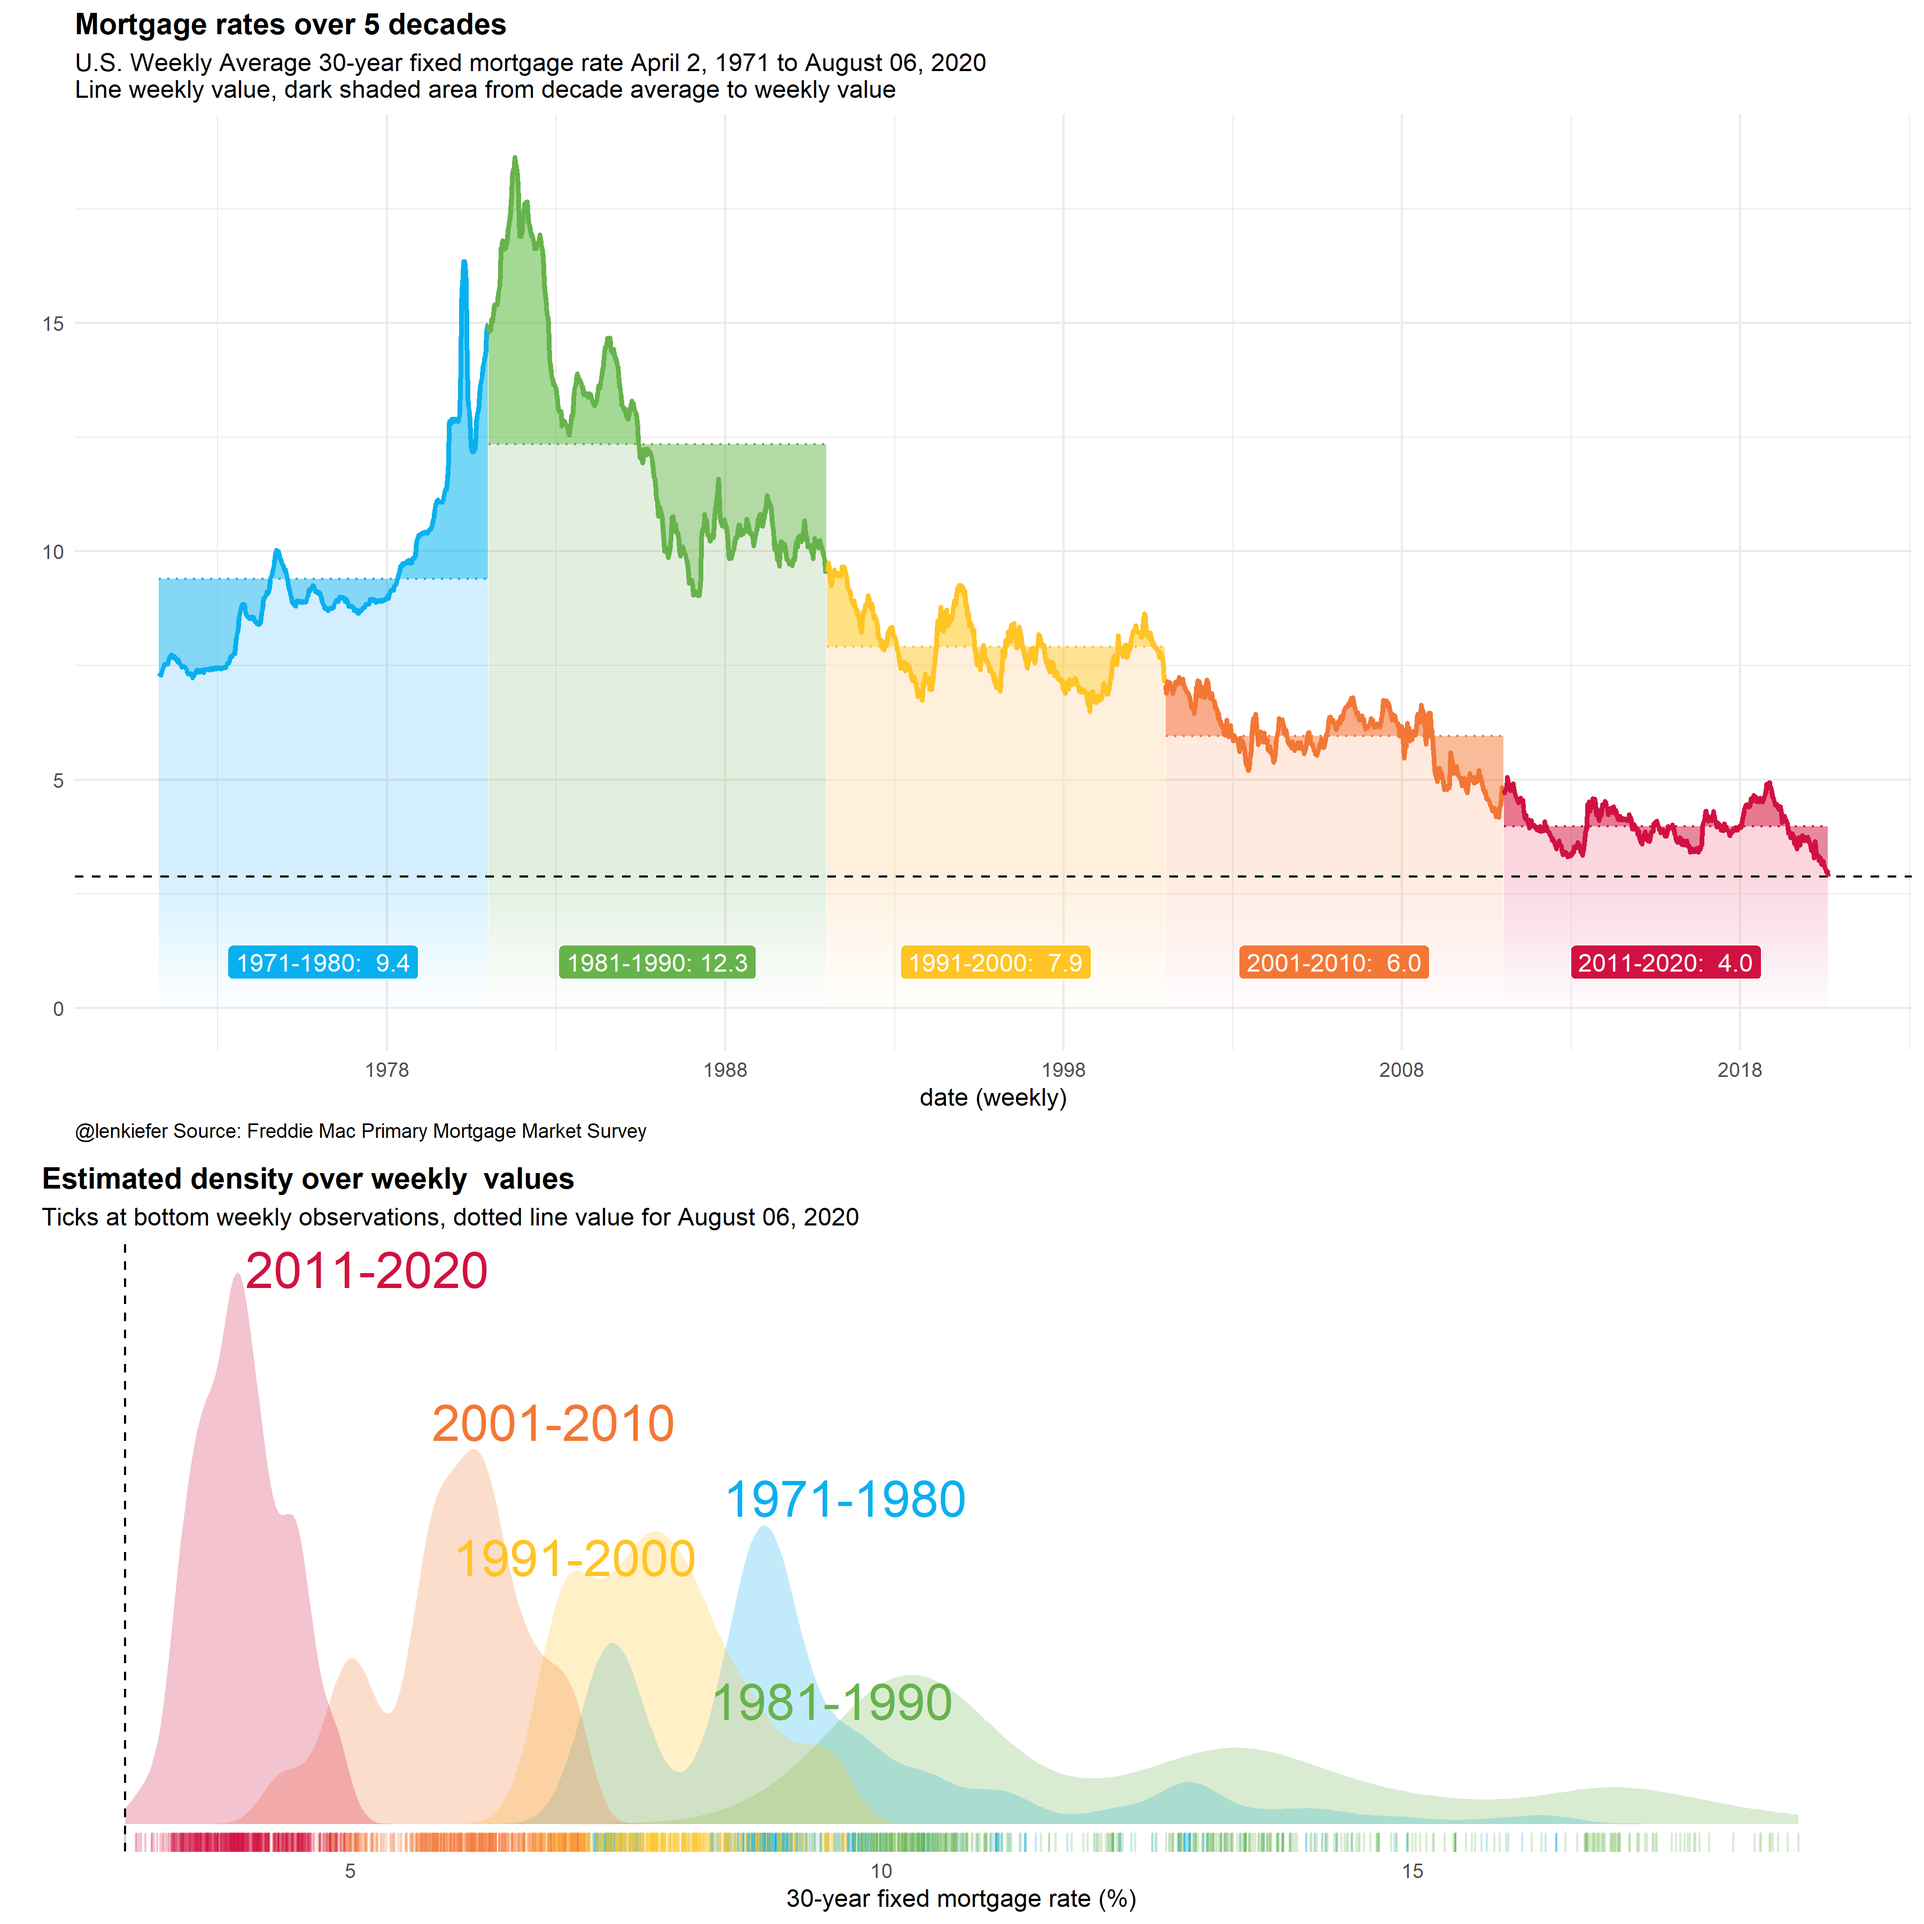
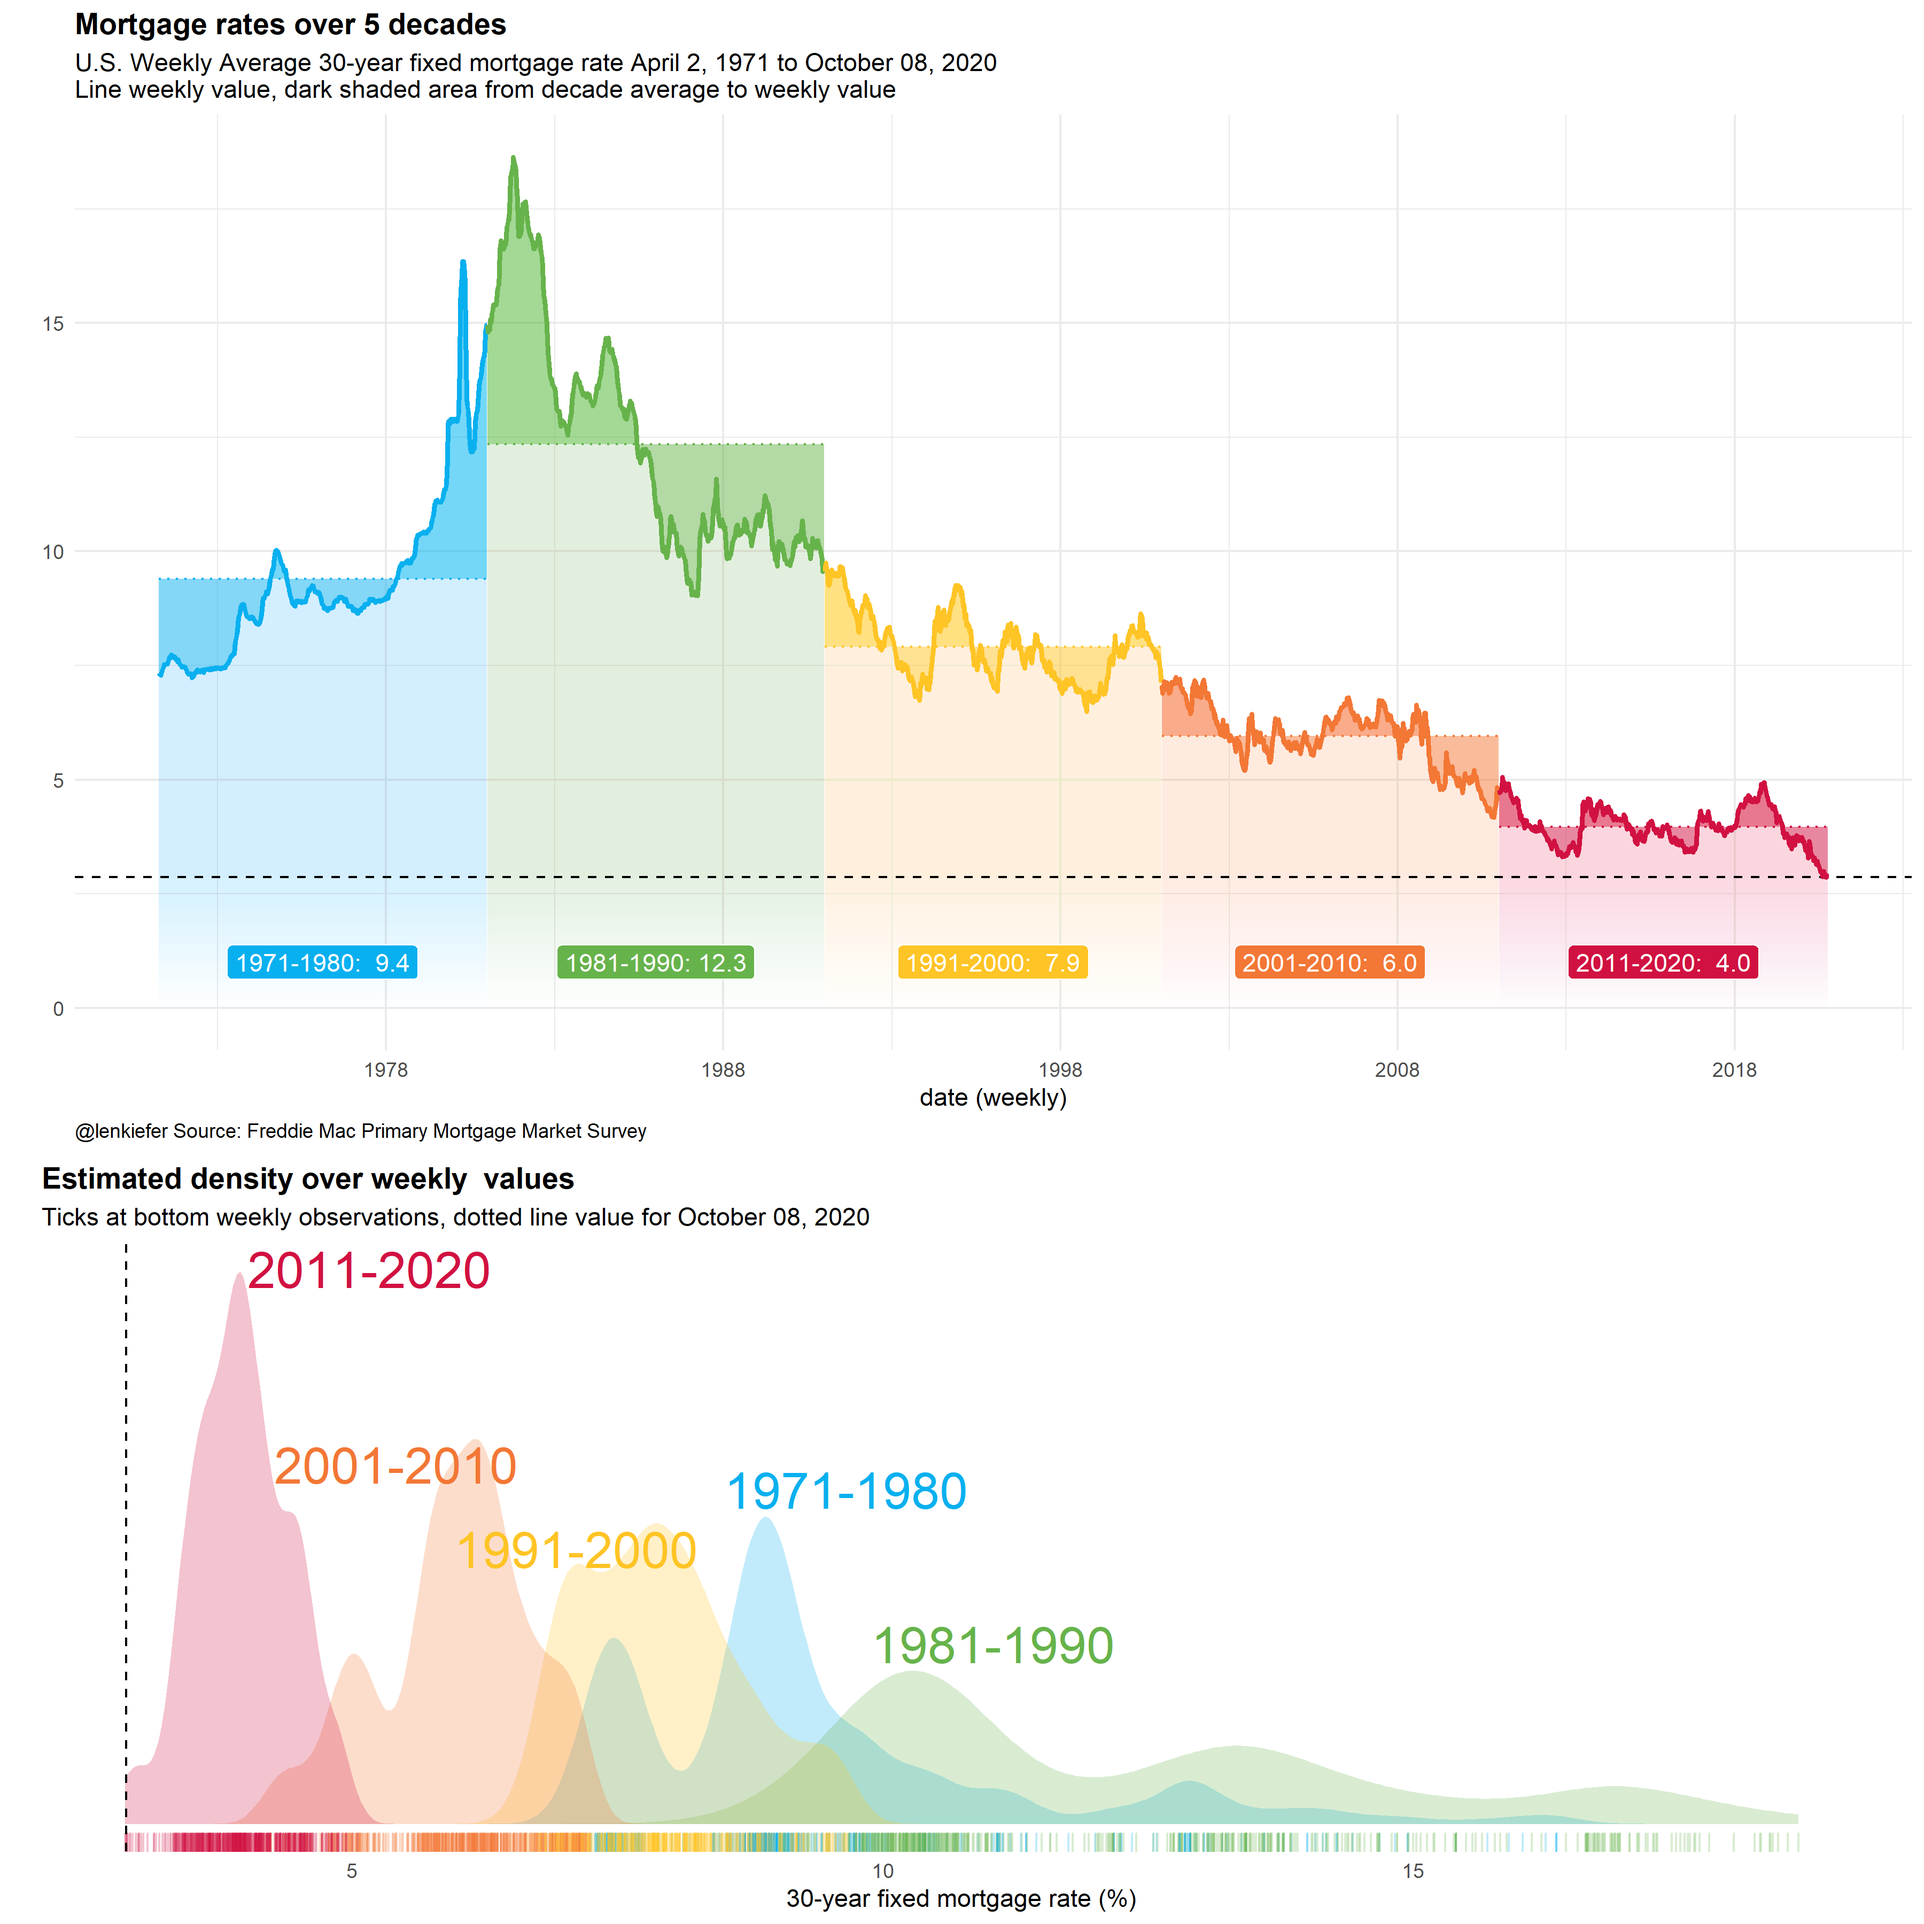
update favs 2020 oct

diff --git a/2020/04/20/updated-favorite-data-visualizations/index.html b/2020/04/20/updated-favorite-data-visualizations/index.html
@@ -252,10 +252,10 @@
 <p>Your favorite chart isn’t here? Let me know and maybe I can add it.</p>
 <div id="mortgage-rates" class="section level1">
 <h1>Mortgage Rates</h1>
-<p><em>Last updated 2020-08-08</em></p>
+<p><em>Last updated 2020-10-10</em></p>
 <p>Post <a href="../../../../2019/10/10/visualizing-consumer-price-inflation-and-mortgage-rates/">Visualizing consumer price inflation and mortgage rates</a></p>
 <p><img src="../../../../img/favorites/mtg.png" style="width:550px"></p>
-<p><em>Last updated 2020-08-08</em></p>
+<p><em>Last updated 2020-10-10</em></p>
 <p>Post <a href="../../../../2020/04/30/mortgage-rates-hit-a-record-low/">Mortgage rates hit a record low</a>
 <strong>Another record low on 2020-07-02</strong></p>
 <p><img src="../../../../img/favorites/mtg_trend.png" style="width:550px"></p>
@@ -263,7 +263,7 @@
 </div>
 <div id="u.s.-employment-charts" class="section level1">
 <h1>U.S. Employment Charts</h1>
-<p><em>Last updated 2020-08-08</em></p>
+<p><em>Last updated 2020-10-10</em></p>
 <p>Post <a href="../../../../2020/06/06/presentation-quadfecta-and-jobs-friday-2020/">Jobs Friday June 2020</a></p>
 <p><img src="../../../../img/favorites/jg.png" style="width:450px"></p>
 <p><img src="../../../../img/favorites/cjg.png" style="width:450px"></p>
@@ -271,7 +271,7 @@
 </div>
 <div id="jobless-claims-animations" class="section level1">
 <h1>Jobless claims animations</h1>
-<p><em>Last updated 2020-08-13</em></p>
+<p><em>Last updated 2020-10-10</em></p>
 <p>Animated versions of my jobless claims charts.</p>
 <p>Post: <a href="../../../../2020/04/03/us-labor-market-update-april-2020/">Labor Market Update</a></p>
 <p><img src="../../../../img/favorites/ICSA.gif" style="width:550px"></p>
